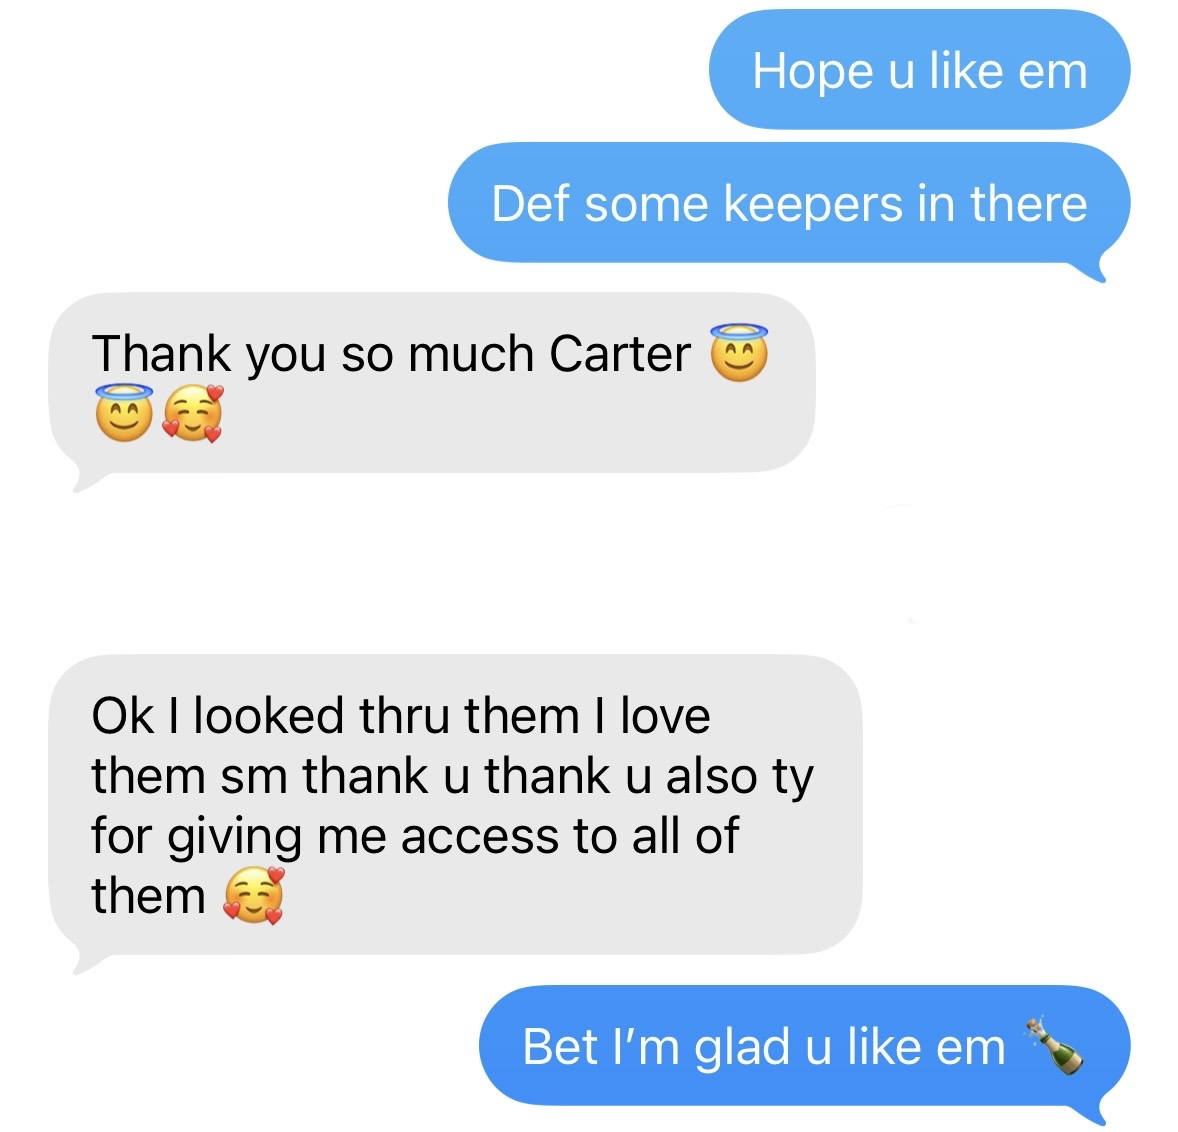
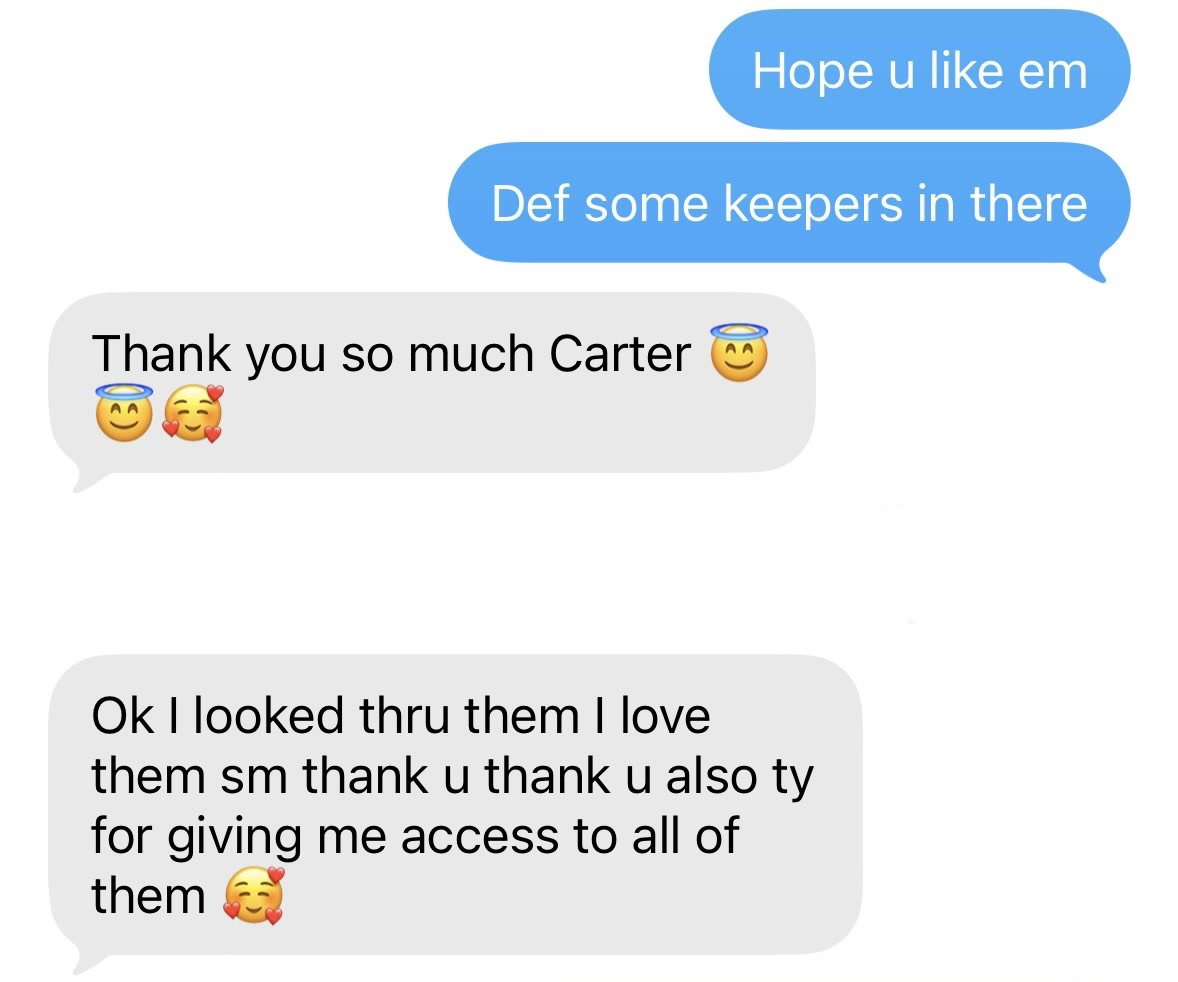
Cut Bet I'm glad reply off review

diff --git a/index.html b/index.html
@@ -388,7 +388,7 @@
     <img src="reviews/IMG_3534.jpg?v=2" alt="Client text" loading="lazy">
   </div>
   <div class="reviews">
-    <img src="reviews/IMG_3526.jpg" alt="Client text" loading="lazy">
+    <img src="reviews/IMG_3526.jpg?v=2" alt="Client text" loading="lazy">
     <img class="dark" src="reviews/IMG_3525.jpg" alt="Client text" loading="lazy">
   </div>
   </section>
